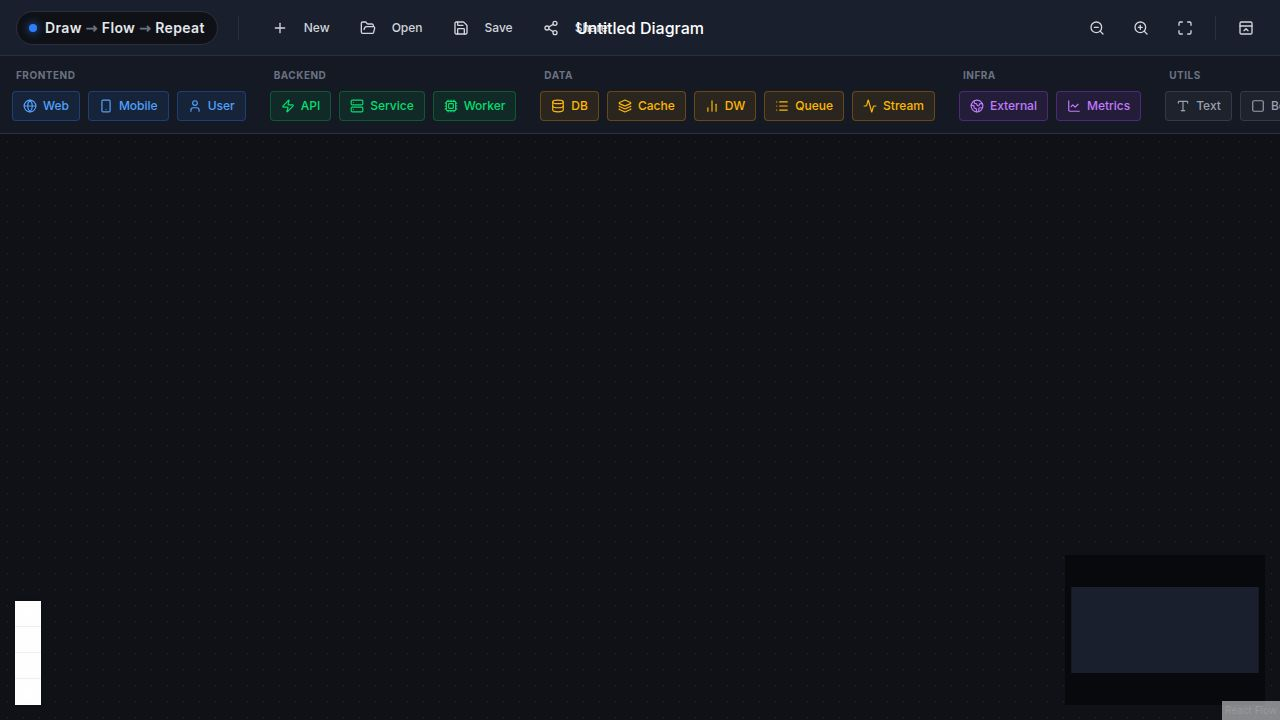
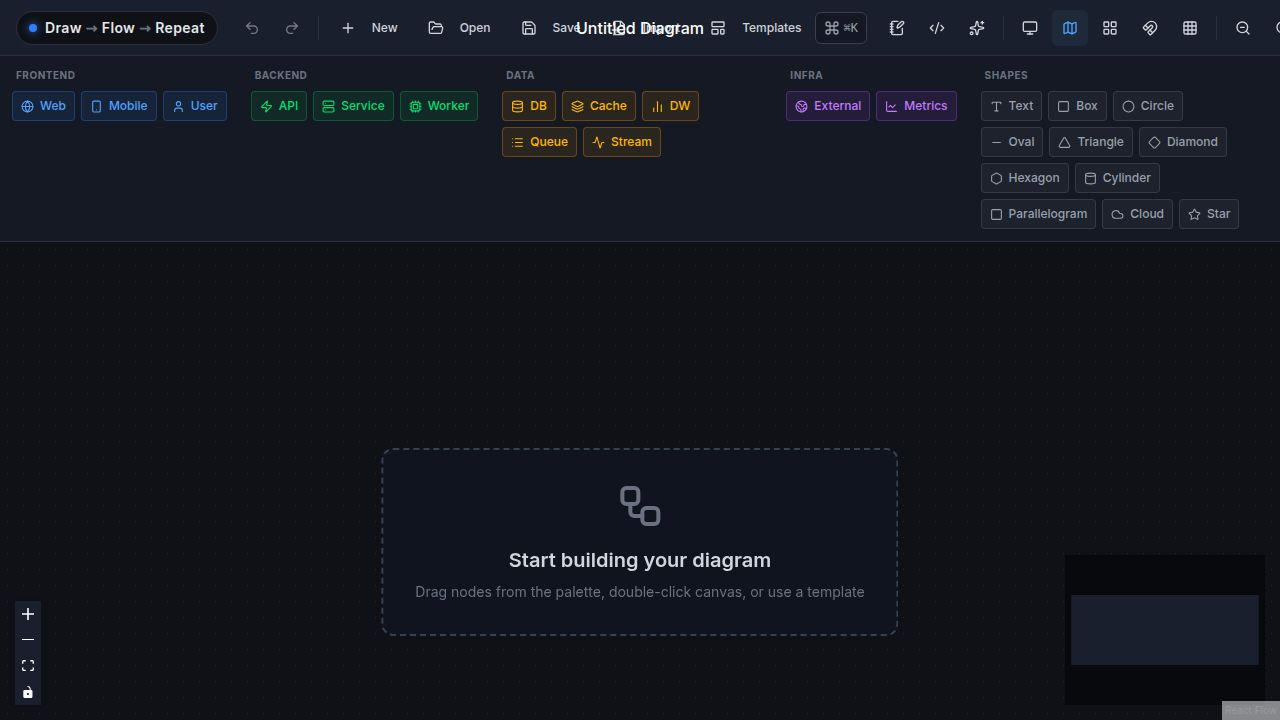
Organize project plan and add installation instructions
Update PLANNING.md to group features into sprints, move known issues and architecture notes to the top, and create a new INSTALL.md file with detailed setup and running instructions.

Replit-Commit-Author: Agent
Replit-Commit-Session-Id: 3322d1b5-0e8d-4c77-90d4-e721e1998023
Replit-Commit-Checkpoint-Type: full_checkpoint
Replit-Commit-Event-Id: e630ee28-282f-42fc-85e2-b4ccb1408217
Replit-Commit-Screenshot-Url: https://storage.googleapis.com/screenshot-production-us-central1/93f5dbd2-2529-44cc-a0a2-add414c95b13/3322d1b5-0e8d-4c77-90d4-e721e1998023/A1PQM4A
Replit-Helium-Checkpoint-Created: true

diff --git a/INSTALL.md b/INSTALL.md
@@ -1,0 +1,190 @@
+# DrawFlow — Installation Guide
+
+This guide covers everything from cloning the repository to running all services locally.
+
+---
+
+## Prerequisites
+
+Make sure the following are installed before starting:
+
+| Tool | Minimum Version | Check |
+|------|----------------|-------|
+| Git | Any recent version | `git --version` |
+| Node.js | 20.x or higher | `node --version` |
+| pnpm | 10.x or higher | `pnpm --version` |
+
+**Installing pnpm** (if you don't have it):
+```bash
+npm install -g pnpm
+```
+
+---
+
+## 1. Clone the Repository
+
+```bash
+git clone https://github.com/your-username/drawflow.git
+cd drawflow
+```
+
+Replace `your-username/drawflow` with your actual GitHub repo path.
+
+---
+
+## 2. Install Dependencies
+
+From the repo root, install all workspace dependencies in one command:
+
+```bash
+pnpm install
+```
+
+This installs dependencies for all packages in the monorepo (`drawflow`, `api-server`, `mockup-sandbox`, shared libraries) using the lockfile for reproducible installs.
+
+---
+
+## 3. Running the Services
+
+The project is a pnpm monorepo with three services. You can run them individually or all together.
+
+### DrawFlow (main diagramming app)
+
+```bash
+PORT=24797 BASE_PATH=/ pnpm --filter @workspace/drawflow run dev
+```
+
+Open **http://localhost:24797** in your browser.
+
+### API Server (backend)
+
+```bash
+PORT=8080 pnpm --filter @workspace/api-server run dev
+```
+
+The API will be available at **http://localhost:8080**.
+
+### Mockup Sandbox (component preview, optional)
+
+```bash
+PORT=8081 BASE_PATH=/__mockup pnpm --filter @workspace/mockup-sandbox run dev
+```
+
+---
+
+## 4. Environment Variables / Startup Arguments
+
+All services use environment variables set as command-line prefixes. There is no `.env` file required for local development.
+
+### DrawFlow (`@workspace/drawflow`)
+
+| Variable | Required | Default | Description |
+|----------|----------|---------|-------------|
+| `PORT` | Yes | — | Port the Vite dev server listens on. Must be a free port. |
+| `BASE_PATH` | Yes | — | URL base path prefix. Use `/` for root. Use `/__mockup` for the sandbox. |
+| `NODE_ENV` | No | `development` | Set to `production` for a production build. Disables dev-only plugins. |
+
+**Examples:**
+```bash
+# Standard local dev
+PORT=24797 BASE_PATH=/ pnpm --filter @workspace/drawflow run dev
+
+# Run on a different port
+PORT=5173 BASE_PATH=/ pnpm --filter @workspace/drawflow run dev
+
+# Custom base path (e.g., behind a reverse proxy at /app)
+PORT=24797 BASE_PATH=/app pnpm --filter @workspace/drawflow run dev
+```
+
+### API Server (`@workspace/api-server`)
+
+| Variable | Required | Default | Description |
+|----------|----------|---------|-------------|
+| `PORT` | No | `8080` | Port the API server listens on. |
+| `NODE_ENV` | No | `development` | Affects logging verbosity and error detail. |
+
+---
+
+## 5. Building for Production
+
+### DrawFlow
+
+```bash
+pnpm --filter @workspace/drawflow run build
+```
+
+Output goes to `artifacts/drawflow/dist/public/`. Serve these static files with any web server (nginx, Caddy, etc.).
+
+### API Server
+
+```bash
+pnpm --filter @workspace/api-server run build
+```
+
+Output goes to `artifacts/api-server/dist/`. Start with:
+```bash
+node artifacts/api-server/dist/index.mjs
+```
+
+### Build Everything
+
+```bash
+pnpm -r run build
+```
+
+---
+
+## 6. Type Checking
+
+```bash
+# Check the DrawFlow app
+pnpm --filter @workspace/drawflow run typecheck
+
+# Check all packages
+pnpm -r run typecheck
+```
+
+---
+
+## 7. Project Structure (Quick Reference)
+
+```
+drawflow/                        ← repo root
+├── artifacts/
+│   ├── drawflow/                ← main diagramming app (React + Vite)
+│   │   ├── src/
+│   │   │   ├── components/      ← all UI components
+│   │   │   ├── hooks/           ← useHistory, use-toast, etc.
+│   │   │   ├── lib/             ← DSL parser, Mermaid exporter
+│   │   │   ├── types.ts         ← shared TypeScript types
+│   │   │   └── index.css        ← global styles + Tailwind
+│   │   ├── vite.config.ts
+│   │   └── package.json
+│   ├── api-server/              ← backend API (Node.js/Hono)
+│   └── mockup-sandbox/          ← isolated component preview server
+├── lib/                         ← shared workspace libraries
+├── README.md                    ← feature overview
+├── INSTALL.md                   ← this file
+├── PLANNING.md                  ← sprint plan and roadmap
+├── package.json                 ← workspace root
+└── pnpm-workspace.yaml          ← monorepo workspace config
+```
+
+---
+
+## 8. Common Issues
+
+**`vite: not found` on first run**
+Run `pnpm install` from the repo root before starting any service.
+
+**`Port XXXX is already in use`**
+Another process is using that port. Either stop the other process, or change `PORT` to a free port (e.g., `PORT=5174`).
+
+**`PORT environment variable is required`**
+You forgot to prefix the command with `PORT=...`. The app will not start without it — this is intentional to avoid port conflicts.
+
+**`BASE_PATH environment variable is required`**
+Same as above — prefix the command with `BASE_PATH=/`.
+
+**Diagrams disappeared after browser update**
+Diagrams are stored in `localStorage`, which can be cleared by the browser. Export important diagrams as JSON (`Copy JSON` in the toolbar) and keep them in your repo for backup.

diff --git a/PLANNING.md b/PLANNING.md
@@ -1,10 +1,30 @@
 # DrawFlow — Planning & Roadmap
 
-This document lists planned improvements and feature ideas for DrawFlow.
+---
+
+## Known Issues / Tech Debt
+
+These are tracked issues that need to be addressed before or alongside feature work to avoid compounding problems.
+
+- **Edge migration shim:** Saved diagrams that used the old `smoothstep` edge type won't render correctly after the migration to `editable` edges. Need a backward-compat shim in `handleLoad` that upgrades old edges on load.
+- **Triangle shape inconsistency:** The triangle shape uses CSS `border` tricks rather than SVG, making it visually inconsistent with all other SVG-based shapes. Should be refactored to SVG `<polygon>`.
+- **Node handle discoverability:** Handles only appear on hover, which is confusing for new users who don't know to hover a node before connecting. Consider always-visible subtle handles or a first-run hint.
 
 ---
 
-## In Progress / Recently Completed
+## Architecture Notes
+
+Understanding these before building new features avoids duplicating logic or breaking existing systems.
+
+- **Diagram state** lives in React state (`useNodesState` / `useEdgesState`) and is serialised to `localStorage` on save. There is no server-side persistence today.
+- **Edge waypoints** are stored as `edge.data.waypoints: {x, y}[]` and rendered by `EditableEdge.tsx`. Any feature touching edges must preserve this field.
+- **Undo/redo** is handled by `hooks/useHistory.ts`, which snapshots full node/edge arrays. Structural changes should call `takeSnapshot()` before mutating state.
+- **DSL parser** at `lib/diagramParser.ts` converts text input to node/edge arrays. AI panel and code panel both use it.
+- **AI generation** calls a language model endpoint via the AI panel, parses the result as DSL, then runs it through the parser.
+
+---
+
+## Completed
 
 - [x] Transparent React Flow controls and pane background
 - [x] Minimap show/hide toggle in toolbar
@@ -15,82 +35,95 @@ This document lists planned improvements and feature ideas for DrawFlow.
 
 ---
 
-## Suggested Next 20 Features
+## Sprint Plan
 
-### 1. Shape Resize Handles
-Allow nodes to be resized by dragging corner/edge handles. Especially useful for boxes, shapes, and group containers. React Flow supports `NodeResizer` — wire it in for shape-type nodes.
+### Sprint 1 — Canvas Interaction Polish
+**Items: 1, 3, 11, 13**
+*(Pulling 11 and 13 forward from their original positions — both are 1–2 line changes and cost nothing to include now)*
 
-### 2. Group / Container Nodes
-Add a "Group" node type that other nodes can be dragged inside. Groups act as visual containers with a label, collapsible behavior, and automatic resizing to fit children.
+| # | Feature | Effort | Notes |
+|---|---------|--------|-------|
+| 1 | Shape Resize Handles | Medium | React Flow `NodeResizer` component; scoped to CustomNode.tsx |
+| 3 | Edge Type Selector (per connection) | Small | Add to right-click edge context menu; no new state |
+| 11 | Zoom-to-Selection | Tiny | One toolbar button + `fitView({ nodes: selected })` call |
+| 13 | Minimap Click-to-Navigate | Tiny | MiniMap already supports `onClick` / `onNodeClick` props — just wire it |
 
-### 3. Edge Type Selector (per connection)
-Right-click context menu option to switch an individual edge between bezier, straight, step, and smoothstep routing styles without losing waypoints.
-
-### 4. Multi-Page / Tab Diagrams
-Support multiple diagram pages within a single project file. Users can add tabs (e.g., "Overview", "Data Layer", "Auth Flow") and switch between them without losing state.
-
-### 5. Real-Time Collaboration
-WebSocket-based live cursors and shared editing so multiple users can work on the same diagram simultaneously. Could use a simple CRDT or operational transform approach.
-
-### 6. Custom Node Icons / Image Upload
-Let users upload a PNG/SVG logo and use it as a node's icon. Particularly useful for mapping real-world services (AWS, GCP, Stripe, etc.) onto diagram nodes.
-
-### 7. Diagram Comments / Annotations
-Sticky-note style comments that float above the canvas (not connected to any node). Support threading/replies for team review workflows.
-
-### 8. Version History & Branching
-Save named snapshots of the diagram (e.g., "v1.0 — initial design") and allow comparing or restoring any previous version. Works alongside the existing localStorage save system.
-
-### 9. Import from Mermaid / PlantUML
-Parse Mermaid.js or PlantUML syntax and render it as an editable React Flow diagram. Complements the existing Mermaid export.
-
-### 10. Dark/Light Theme Toggle
-Add a proper light mode with adjusted color tokens. Currently the app is dark-only. Persist preference in localStorage.
-
-### 11. Custom Edge Labels with Rich Text
-Allow edge labels to contain multi-line text, icons, or styled badges (e.g., HTTP method tags like GET / POST). Double-click opens a mini rich-text editor.
-
-### 12. Connection Validation Rules
-Allow users to define rules that prevent invalid connections (e.g., "DB can only connect to Service"). Show visual feedback when a connection attempt violates a rule.
-
-### 13. Auto-Save to Cloud
-Replace the localStorage-only persistence with optional cloud save via a backend API. Support user accounts (auth) and a diagram library page.
-
-### 14. Diagram Diff / Change Tracking
-Show a visual diff between two saved versions — added nodes in green, removed in red, changed edges highlighted. Useful for code-review style collaboration.
-
-### 15. Keyboard Shortcut Customization
-Let users remap keyboard shortcuts from a settings panel. Store bindings in localStorage.
-
-### 16. Zoom-to-Selection
-A toolbar button or keyboard shortcut that fits the viewport to only the currently selected nodes (rather than the whole diagram).
-
-### 17. Path Animation Controls
-Allow users to control edge animation speed, direction (reverse flow), and toggle animation on individual edges. Useful for showing data flow direction.
-
-### 18. Minimap Click-to-Navigate
-Make the minimap interactive so clicking or dragging on it pans the main canvas to that area.
-
-### 19. Node Statistics Panel
-A sidebar that shows diagram stats: total nodes, edges, nodes by category, most-connected node, orphaned nodes (no connections), etc.
-
-### 20. Export to Confluence / Notion / Markdown
-Generate an embeddable diagram for Confluence (XML), a Notion-compatible image block, or a Markdown file with a rendered PNG attached. Streamlines documentation workflows.
+**Why these together:** All pure canvas-interaction changes. No new state management, no new components. Items 11 and 13 are free additions — skipping them here means doing another sprint just for two-line changes.
 
 ---
 
-## Architecture Notes
+### Sprint 2 — Node Richness
+**Items: 2, 4, 5, 9**
 
-- All diagram state is stored in React state (`useNodesState` / `useEdgesState`) and serialised to localStorage on save.
-- Edge waypoints are stored in `edge.data.waypoints` as `{x, y}[]` and rendered by `EditableEdge.tsx`.
-- Undo/redo is handled by a custom `useHistory` hook that snapshots node/edge arrays.
-- The DSL parser (`lib/diagramParser.ts`) converts text descriptions to node/edge arrays.
-- AI generation uses the AI panel to call a language model endpoint and parse the result as a diagram.
+| # | Feature | Effort | Notes |
+|---|---------|--------|-------|
+| 2 | Group / Container Nodes | Large | React Flow SubFlow API; works better after resize handles exist (Sprint 1) |
+| 4 | Custom Node Icons / Image Upload | Medium | File input → base64 in node data; isolated to CustomNode.tsx |
+| 5 | Diagram Comments / Annotations | Small | New floating sticky-note node type; no edge logic |
+| 9 | Dark/Light Theme Toggle | Small | CSS variable token swap; fully isolated from all other features |
+
+**Why these together:** Items 4, 5, and 9 don't touch each other at all and can be built in parallel. Item 2 is the anchor — it's the largest piece and benefits from resize handles from Sprint 1.
 
 ---
 
-## Known Issues / Tech Debt
+### Sprint 3 — Content & Export
+**Items: 6, 8, 12, 15**
 
-- Saved diagrams using `smoothstep` edge type won't render correctly after the migration to `editable` edges — need a migration shim in `handleLoad`.
-- The triangle shape uses CSS borders rather than SVG, making it inconsistent with other SVG shapes.
-- Node handles only appear on hover, which can be confusing for new users unfamiliar with React Flow's connection model.
+| # | Feature | Effort | Notes |
+|---|---------|--------|-------|
+| 6 | Custom Edge Labels with Rich Text | Medium | Extends the existing edge label editor; scoped to EditableEdge.tsx |
+| 8 | Import from Mermaid / PlantUML | Medium | Parser work in `lib/`; complements existing Mermaid export |
+| 12 | Path Animation Controls | Small | Extends edge data + adds UI to right-click menu |
+| 15 | Export to Confluence / Notion / Markdown | Medium | Pure export logic; no canvas changes |
+
+**Why these together:** Items 6 and 12 both touch edge data/rendering. Items 8 and 15 are both import/export — they live in `lib/` and don't touch canvas components.
+
+---
+
+### Sprint 4 — Application-Level Features
+**Items: 7, 10, 14, 16**
+
+| # | Feature | Effort | Notes |
+|---|---------|--------|-------|
+| 7 | Multi-Page / Tab Diagrams | Large | Biggest state management change; wrap diagram state in a pages map |
+| 10 | Connection Validation Rules | Medium | Logic layer; doesn't change rendering, only connection behaviour |
+| 14 | Node Statistics Panel | Small | New sidebar panel component; reads from existing node/edge state |
+| 16 | Keyboard Shortcut Customization | Medium | Settings panel + localStorage-backed binding map |
+
+**Why these together:** All "application shell" features rather than canvas features. Item 7 is the heaviest lift of the sprint; 14 and 16 can be done in parallel alongside it.
+
+---
+
+### Sprint 5 — Persistence Layer *(only if deploying publicly or going multi-user)*
+**Items: 17, 18, 19**
+
+> **Note:** These are only worth building if the app is hosted for multiple users or accessed across devices. If you're the sole user working from a single machine with git, git already gives you most of this at the code level for free. The value of these features is specifically for non-technical users or shared/cloud deployments.
+
+| # | Feature | Effort | Notes |
+|---|---------|--------|-------|
+| 17 | Version History & Branching | Medium | In-app named snapshots stored in localStorage (or cloud); different from git — these are user-friendly diagram checkpoints, not code commits |
+| 18 | Auto-Save to Cloud | Large | Requires a backend (API + database); replaces localStorage-only persistence. Precondition for 17 and 19 at scale |
+| 19 | Diagram Diff / Change Tracking | Large | Visual canvas diff (nodes green/red) between two saved versions; depends on 17 |
+
+**Build order within Sprint 5:** 18 first (cloud save), then 17 (version history), then 19 (diff). Each depends on the previous.
+
+---
+
+### Backlog / Future (not planned)
+
+| Feature | Reason deferred |
+|---------|----------------|
+| Real-Time Collaboration | Requires WebSocket infrastructure, CRDT or OT conflict resolution, and user auth. Complex enough to be its own multi-sprint project. Track it but don't plan it until the persistence layer (Sprint 5) is complete. |
+
+---
+
+## Sprint Summary
+
+| Sprint | Items | Theme |
+|--------|-------|-------|
+| 1 | 1, 3, 11, 13 | Canvas interaction polish |
+| 2 | 2, 4, 5, 9 | Node richness |
+| 3 | 6, 8, 12, 15 | Content & export |
+| 4 | 7, 10, 14, 16 | Application-level features |
+| 5 | 17, 18, 19 | Persistence layer (conditional) |
+| Backlog | Real-Time Collaboration | Future |